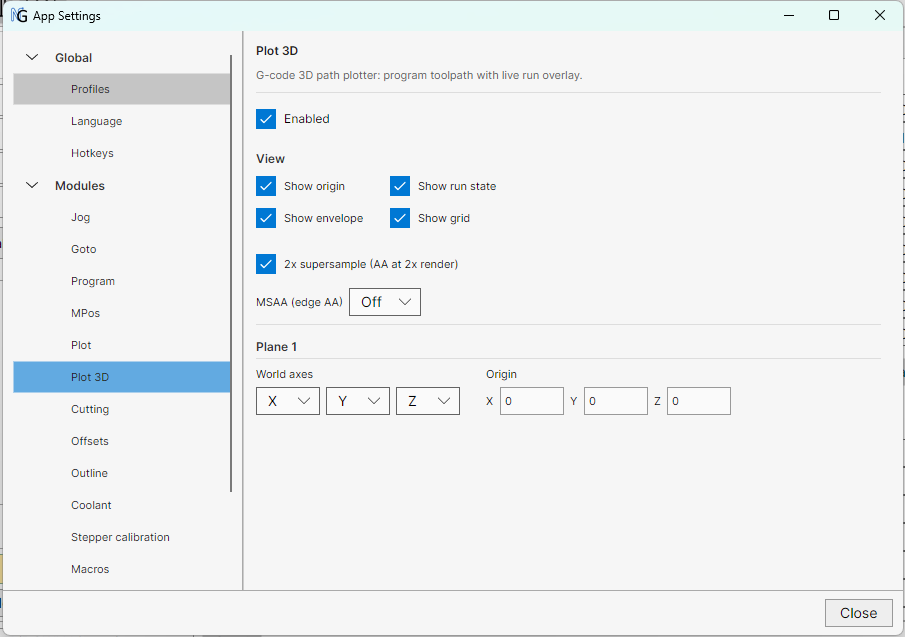
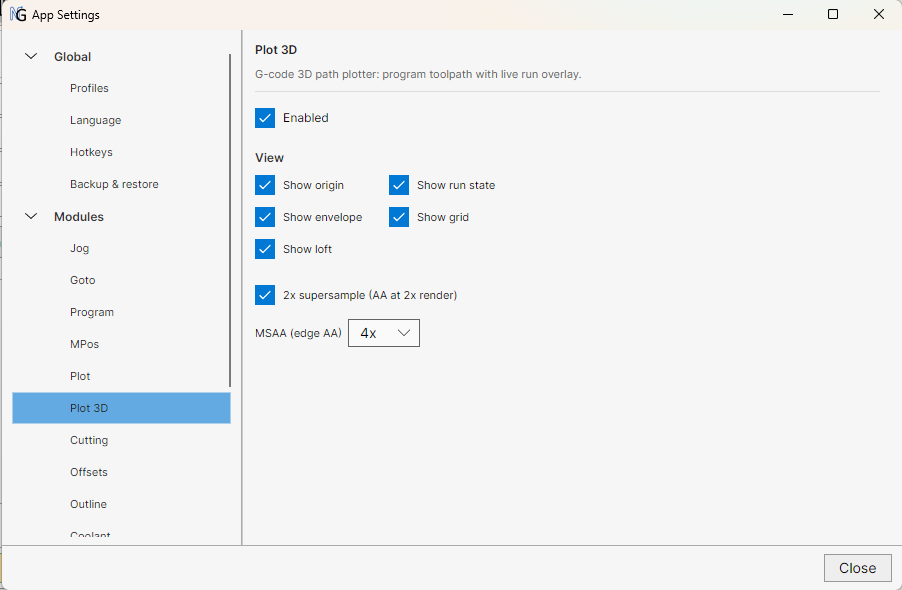
docs: correct stale post-kinematics facts and refresh settings screenshots

diff --git a/tests/SenderNG.Core.Tests/ToolpathBuilderTests.cs b/tests/SenderNG.Core.Tests/ToolpathBuilderTests.cs
@@ -168,9 +168,9 @@ public class ToolpathBuilderTests
     [Fact]
     public void Foam_machine_slices_second_carriage_from_Z_A_axes()
     {
-        // A foam-style block: tower 1 rides X/Y, tower 2 rides Z/A. The foam
-        // plane indices are 0,1 (plane 0) and 2,3 (plane 1) — the plotter reads
-        // those from MachineType.Planes and slices the per-axis segment arrays.
+        // A foam-style block: tower 1 rides X/Y, tower 2 rides Z/A. The slices
+        // are positional (indices 0,1 and 2,3) — the plotter maps those indices
+        // to the profile's declared planes via the kinematics provider.
         var segments = Build("G1 X10 Y2 Z8 A2 F100");
 
         var segment = Assert.Single(segments);

diff --git a/docs/architecture.md b/docs/architecture.md
@@ -19,7 +19,7 @@ Feature priorities, planned work and known deferred scope live in [`docs/ROADMAP
 
 ## 4. Porting policy
 
-Implementation is based on the original ioSender **when possible**: if a process already exists upstream (probing flow, jog logic, settings tree, override handling, steppers calibration wizard, …), port it rather than reinvent. Deviate only where the platform forces it (WPF → Avalonia, `Properties.Settings` / `App.config` → portable `settings.json`, custom stream classes → `System.IO.Ports`) or where this project's specs deliberately diverge (demo mode, DI module system, cutting overrides panel).
+Implementation is based on the original ioSender **when possible**: if a process already exists upstream (probing flow, jog logic, settings tree, override handling, steppers calibration wizard, …), port it rather than reinvent. Deviate only where the platform forces it (WPF → Avalonia, `Properties.Settings` / `App.config` → portable JSON settings (`global.json` plus one file per machine profile), custom stream classes → `System.IO.Ports`) or where this project's specs deliberately diverge (demo mode, DI module system, cutting overrides panel).
 
 ## 5. Current architecture (SenderNG)
 
@@ -35,7 +35,7 @@ tests/SenderNG.Modules.HeightMapViewer.Tests  xUnit height-map viewer suite
 tests/ReleaseManager.Tests xUnit release-tooling suite
 ```
 
-- **Engine (ported from ioSender/foamcut, kept nearly whole):** `GCodeParser.cs` (~3600 L), `NGCExpr.cs` (~1520 L), `GCodeEmulator.cs` (~680 L), `GCode.cs`, `Machine.cs`. `Grbl.cs` is deliberately slim (203 L vs upstream 3438 L): caps parsing (`ParseCaps`, `[OPT:...]`) ported; the rest are compile-only stubs — marked tech debt.
+- **Engine (ported from ioSender/foamcut, kept nearly whole):** `GCodeParser.cs` (~3600 L), `NGCExpr.cs` (~1520 L), `GCodeEmulator.cs` (~680 L), `GCode.cs`, `Machine.cs`. `Grbl.cs` is deliberately slim (206 L vs upstream 3438 L): caps parsing (`ParseCaps`, `[OPT:...]`) ported; the rest are compile-only stubs — marked tech debt.
 - **Service layer (`IGrblService`):** `DemoGrblService` (in-memory grbl simulation — jog `$J=`, G90/G91/G92, M3/M4/M5, coolant + override realtime bytes, persistent `$$` store) vs `RealGrblService` (serial via `System.IO.Ports` or network via `TcpGrblTransport` — grblHAL Ethernet; telnet/WebSocket not yet implemented), swapped behind `GrblServiceProxy` so subscribers survive demo↔real↔network transitions. Realtime command bytes live in `GrblRealtime`. A `ConnectionChanged` event on `IGrblService` (forwarded by the proxy, raised on inner swaps) drives the UI's connected state.
 - **Module contract (`IModule`):** `Id` / `Name` / `Order` / `PanelHint {Left, Center, Right, Flyout, Menu, Bottom, Dialog, None}` / `IsVisibleByDefault` / `CanHide` / `HotKeys` / `RegisterServices` / `CreateViewModel` / `CreateView`. `ModuleCatalog` scans assemblies; built-ins are registered explicitly in `HostSetup`. Settings surfaces live on a second seam, `IModuleSettingsProvider`: generic numeric/boolean fields or a custom settings view for the App Settings card, `AttachServices(IServiceProvider)` (called once after host build), and a `SettingsScope` declaration — `Profile` (default: section in the active machine profile) or `Global` (section in `global.json`; the Console module is the built-in example).
 - **Modules:**
@@ -53,7 +53,7 @@ tests/ReleaseManager.Tests xUnit release-tooling suite
 | Relation | Items |
 | --- | --- |
 | **Kept (ported)** | GCodeParser, NGCExpr, GCodeEmulator, Machine, caps parsing, foam patches, Macro editor (foamcut), Probing, Steppers calibration wizard (landed 2026-09-19), DRO/Jog/Coolant/Offsets concepts |
-| **Slimmed** | Grbl.cs (3438 → 203 L, caps only + stubs), GrblViewModel (1434 L → `MachineState`) |
+| **Slimmed** | Grbl.cs (3438 → 206 L, caps only + stubs), GrblViewModel (1434 L → `MachineState`) |
 | **Stripped** | WPF everywhere; custom streams (Serial/Telnet/WebSocket/YModem/Eltima) → `System.IO.Ports`; `Properties.Settings`/`App.config` → portable settings; localization (9 locales → JSON catalogs en/ru/fr/es/de with per-plugin overrides — see `docs/localization.md`) |
 | **Deferred (lowest priority)** | camera (AForge/V4L2), Lathe, DragKnife, SD card view, MPG, PID log, THC monitor, Trinamic view, Tool view |
 | **Added** | Demo/offline mode, DI plugin system + assembly scan, 4-panel layout with per-module visibility, cutting realtime overrides panel (0x90–0x9E), live status parsing (WPos/FS:/Ov:), MDI history, program limits, state indicator, JSON height-map format + 3D height-map viewer plugin, xUnit test suite (upstream had none) |
@@ -76,18 +76,18 @@ tests/ReleaseManager.Tests xUnit release-tooling suite
 - **Foam CNC depth** — the machine-type preset (Mill / Foam) chosen per profile drives the jog layout (schema: preset planes + controller `[AXS:]` letters; under-axed multi-plane machines hide the second plane), the plotter's two-carriage views and the Outline sweep, but foam-specific behavior beyond that is still limited. Hold-to-jog continuous works across these layouts including foam Together; what remains is tracked in the roadmap.
 - **Transports** — `TcpGrblTransport` covers plain TCP; telnet option negotiation and WebSocket are not implemented.
 - **Machine world mapping bakes in a horizontal convention** — the 3D views place a plane's axes by each axis's direction (Width → world X, Length → world Y, Height → world Z). Only `Height → Z` is physics, because a height is vertical by definition; the two horizontal assignments are naming conventions. A machine whose plane horizontal runs along the *other* horizontal axis — a sideways or gantry-rotated frame — therefore cannot be expressed and would need a per-machine override, which is the one thing the deleted per-plotter `Planes[].WorldAxes` table allowed. Deferred; tracked in the roadmap.
-- **Machine-card UI polish (deferred — out of scope for the kinematics work)** — the profile axis editor is behaviourally complete and pinned by headless tests, but its *visual* pass is deferred and deliberately out of scope for now. The smoke-test round already fixed the column alignment, the column titles (`Index | Type | Role | Direction | CAM Alias`) and the sign control (an `Inverted` checkbox replacing the old `[+]` button). What remains is the per-locale column fit (the Russian "Inverted" label is the tightest), the topology picture's proportions after its shrink, and the fact that no part of the card is screenshot-tested, so no automated check can catch a layout regression.
-- **Kinematics honest limits** — the remapped-board path (a controller whose `[AXS:]` letters are not `XYZA…`) is **unit-test-only**: no remapped board has ever been on the bench. A rotary axis's `RotationOrigin` has no consumer yet — it is for a future rotary view, and it is in *machine* coordinates while the plotter draws *work* coordinates, so it cannot be used as-is. The three topology images are placeholder art the maintainer intends to redraw.
+- **Machine-card UI polish** — the profile axis editor is behaviourally complete and pinned by headless tests. The column layout and titles (`Index | Type | Role | Inverted | CAM Alias`), the sign control (an `Inverted` checkbox replacing the old `[+]` button) and the topology art have since been cleaned up. The card still has no screenshot test, so a layout regression would go uncaught; per-locale column fit remains an eye check.
+- **Kinematics honest limits** — the remapped-board path (a controller whose `[AXS:]` letters are not `XYZA…`) is **unit-test-only**: no remapped board has ever been on the bench. A rotary axis's `RotationOrigin` has no consumer yet — it is for a future rotary view, and it is in *machine* coordinates while the plotter draws *work* coordinates, so it cannot be used as-is. The two topology images (mill, foam) are placeholder art the maintainer intends to redraw; the rotary art was removed because it was unreadable at the card's size.
 
 ### Landed recently (context)
 
-- **Controller connect** — three-tab `ConnectView` (Serial / Network / Demo); the app starts disconnected and never in demo mode — the dialog opens right after startup and the UI shows `NOT CONNECTED` until the user picks a controller. The connect-time `$I` handshake fills an immutable `ControllerCapabilities` (Coolant Mist visibility follows it) and pushes the discovered axis count into the injected `GrblInfoState` (the read path for the gcode parser and DRO) and the live `MachineState`. Serial ports re-enumerate every second; disconnects (reader error, failed status write, `IPortPresenceCheck` watchdog) flip the app to NOT CONNECTED and raise `ConnectionChanged`; reconnecting works even when the board comes back under a different COM number.
+- **Controller connect** — three-tab `ConnectView` (Serial / Network / Demo); the app starts disconnected and never in demo mode — the dialog opens right after startup and the UI shows `NOT CONNECTED` until the user picks a controller. The connect-time `$I` handshake fills an immutable `ControllerCapabilities` (Coolant Mist visibility follows it) and pushes the discovered axis count into the injected `GrblInfoState` (the read path for the gcode parser, expressions, jog, Goto and Outline; the DRO reads the kinematics provider instead) and the live `MachineState`. Serial ports re-enumerate every second; disconnects (reader error, failed status write, `IPortPresenceCheck` watchdog) flip the app to NOT CONNECTED and raise `ConnectionChanged`; reconnecting works even when the board comes back under a different COM number.
 - **Cycle bar** — the single run-control surface (the Program view's own bar was removed): Start = run/resume, Hold = pause, Stop = hard reset while Held, Rewind = local rewind when no session is active; buttons stay visible and gate on session state. The session is local orchestration only — the controller is driven exclusively by realtime bytes (`0x7E`/`0x21`/`0x18`) plus the G-code line stream awaiting each `ok`, one byte per transition instead of per button press. Home/Unlock/Reset are bound (`$H`/`$X`/realtime reset).
 - **Status bar, MDI, Console, Cutting** — the status bar keeps ioSender's exact four-slot layout (Blocks | Message | RunTime | JogStep, fixed-width) with no separate connection slot (connection info flows through Message like upstream); the MDI row is label + input + Send. The Cutting widget mirrors live feed/speed from the `FS:` field but reads feed as 0 during Hold — grblHAL reports the programmed feed while the machine is actually stopped; speed is untouched because a spindle keeps running through a feed hold. The Console tab renders the controller's raw output (silent in demo mode; a bounded replay shows the connect burst even if the Console tab is realized after connecting); the Check checkbox (grbl check mode `$C` — dry-run g-code without moving the machine) is bound.
 - **Accessory-state parsing** — `StatusReportParser` reads the grblHAL `A:` field into `MachineState.Flood`/`Mist`/spindle; classic grbl leaves it untouched.
 - **Height map** — the probing module persists maps as JSON (`.hmap.json`, replacing the legacy XML `.map`; no ioSender interchange) and exposes them through the Core `IHeightMapSource` contract (`HeightMapLayer`: row-major Z samples with `NaN` = unprobed, plus `ZOffset`; the stream is a `BehaviorSubject`, so a viewer opened after a probe still receives the current map). A separate first-party plugin, `HeightMapViewer`, consumes that contract (never referencing Probing) and registers Core's `IHeightMap3DRenderer` (`Task ShowAsync()`); the Probing widget's **3D View** action resolves it and is gated on the module's per-profile visibility. The viewer renders the surface, control-point markers and X/Y/Z arrows through `Common.Render`, with per-profile AA settings (2× supersample + MSAA).
 
-- **Machine kinematics and axis roles** (2026-10-14) — a machine profile declares its planes as `MachineAxis`es: a physical `AxisKind` (linear or rotary), a `Direction` naming the line the axis slides along or turns about, a sign, and — for a rotary — a two-coordinate pivot. Optional axes live outside every plane, and one separation scalar is the plane-to-plane distance. `MachineKinematicsResolver` derives the concrete model from the preset ⊕ profile ⊕ the controller's own `[AXS:]` letters ⊕ the reported axis count, so the letter a program uses is always the controller's and a profile only binds indices. `IMachineKinematicsProvider` is the single seam — the plotter (both the Skia panes and the 3D view), the DRO, Wrap and the outline sweep read one resolved instance instead of keeping private letter→axis dictionaries (jog is the deliberate exception; see tech debt). The 3D placement follows each axis's direction, which is what puts a foam tower on a vertical plane. The old positional role surface is deleted rather than deprecated.
+- **Machine kinematics and axis roles** (2026-10-14) — a machine profile declares its planes as `MachineAxis`es: a physical `AxisKind` (linear or rotary), a `Direction` naming the line the axis slides along or turns about, a sign, and — for a rotary — a two-coordinate pivot. Optional axes live outside every plane, and one separation scalar is the plane-to-plane distance. `MachineKinematicsResolver` derives the concrete model from the preset ⊕ profile ⊕ the controller's own `[AXS:]` letters ⊕ the reported axis count, so the letter a program uses is always the controller's first; a profile binds indices and may add an inbound CAM alias (a letter only the program uses). Aliases are profile state, never displayed, and the resolver flags one that collides with a board letter or another alias without dropping it. A multi-plane preset seeds a 200 mm plane-to-plane separation. `IMachineKinematicsProvider` is the single seam — the plotter (both the Skia panes and the 3D view), the DRO, Wrap and the outline sweep read one resolved instance instead of keeping private letter→axis dictionaries (jog is the deliberate exception; see tech debt). The 3D placement follows each axis's direction, which is what puts a foam tower on a vertical plane. The old positional role surface is deleted rather than deprecated.
 
 ### Tech debt
 

diff --git a/README.md b/README.md
@@ -64,7 +64,7 @@ SenderNG is a focused fork of ioSender. The main differences are cross-platform 
 
 ![Plotter widget](/docs/images/plot_iso.png)
 
-- Plotter 3D. Supports orbiting and snap views, but requires OpenGL 3.1+ and may be resource-hungry (tested on an Intel Compute Stick — may be slow, RPi 4B works just fine)
+- Plotter 3D. Supports orbiting and snap views, but requires OpenGL 3.3 core (GLES 3.0 on ARM64) and may be resource-hungry (tested on an Intel Compute Stick — may be slow, RPi 4B works just fine)
 
 ![Plotter 3D widget](/docs/images/plot_3d.png)
 
@@ -113,7 +113,7 @@ SenderNG is a focused fork of ioSender. The main differences are cross-platform 
 
 ## App settings
 
-Everything is configured from App Settings, scoped to the active machine profile (one file per machine plus a `global.json`, with a profile manager inside the settings). Almost any widget can be hidden from there — every module has a visibility toggle (the built-ins: DRO, Jog, Console, Program, Plotter, Coolant, plus the tabs installed by plugins), so the UI shows only what your machine needs. Hotkey remapping, converter parameters and per-module options live there too.
+Everything is configured from App Settings, scoped to the active machine profile (one file per machine plus a `global.json`, with a profile manager inside the settings). Most widgets can be hidden from there — the hideable modules (Plotter, Plot 3D, Cutting, Coolant, Macro, mPos, Outline, Goto, Stepper calibration and the installed plugins) have a visibility toggle, while fixed modules (DRO, Program, Console, Grbl settings, App settings, Offsets, Work parameters) and Jog/converters always stay, so the UI shows only what your machine needs. Hotkey remapping, converter parameters and per-module options live there too.
 
 ![App settings](/docs/images/settings.png)
 
@@ -136,20 +136,20 @@ own metadata rejects is listed with its reason instead of being sent.
 SenderNG speaks the grbl / grblHAL protocol:
 
 - **grblHAL** — the primary target. Full capability detection via the connect-time `$I` handshake: axis count and letters (`[AXS:]`), tool count, options, signals, settings catalog (`$ES`/`$EG`), the G10 L1 tool table, and extended coordinate systems (G59.2/G59.3).
-- **Classic grbl 1.1 and forks** (e.g. the mega5x 1.2i build) — verified against real boards. Detection degrades gracefully: no `[AXS:]` → 3-axis default, settings fall back to the embedded English catalog, no G10 L1 tool table, coordinate systems limited to G54..G59, and mist (M7) support is assumed rather than reported.
+- **Classic grbl 1.1 and forks** (e.g. the mega5x 1.2i build) — verified against real boards. Detection degrades gracefully: no `[AXS:]` → 3-axis default, settings fall back to the embedded English catalog, no G10 L1 tool table, coordinate systems limited to G54..G59, and mist (M7) follows the `[OPT:]` `M` option letter (grblHAL always supports it).
 - **Transports** — serial (COM ports, `/dev/ttyUSB*`, `/dev/ttyACM*`), plain TCP (grblHAL Ethernet boards), or Demo mode.
 
 Limitations:
 
 - TCP only — no telnet option negotiation and no WebSocket transport yet.
 - The app shows as many axes as the firmware reports; producing multi-axis G-code is CAM's scope.
-- No machine kinematics model yet — jog layout is driven by machine profiles (Mill / Foam presets), not by an axis-role map.
+- Machine kinematics are profile-declared: each profile declares its planes and axis roles (linear/rotary, direction, sign, optional CAM alias) and the app resolves them against the controller's reported `[AXS:]` letters for the jog layout, plotter, outline and DRO. Limits: the 3D world mapping assumes Width → X, Length → Y, Height → Z, so a sideways or gantry-rotated frame cannot be expressed yet; a controller with remapped letters is unit-tested only, not bench-verified; a rotary axis's pivot is stored but not yet used by a view.
 - Camera support is deferred indefinitely (if ever, as a 3rd-party plugin).
 - The Plot 3D tab ships on every platform but is hidden by default; on ARM64 it renders via Mesa.
 
 ## Plugins
 
-The base app ships only core functionality; everything else is a plugin — a separate assembly discovered by scanning `Modules/*.dll` at startup. No DLL, no feature: the core bundle runs fine without any of them, and installing one is a straight copy of the plugin zip's contents into the bundle's `Modules/` folder (see [Running from release assets](#running-from-release-assets)). This repository includes:
+Some modules ship inside the app (Jog, Cutting, Coolant, Macro, mPos, Outline, Goto, Stepper calibration); the heavier ones are plugins — a separate assembly discovered by scanning `Modules/*.dll` at startup. No DLL, no feature: the core bundle runs fine without them, and installing one is a straight copy of the plugin zip's contents into the bundle's `Modules/` folder (see [Running from release assets](#running-from-release-assets)). This repository includes:
 
 - Probing — tool-length, edge, center, rotation and height-map probing cycles
 - Height map 3D viewer — interactive 3D surface of the probed height map (opened from the Probing widget)
@@ -352,7 +352,7 @@ selects the Plot 3D plugin's native binaries by build OS, and because keeping
 both Linux targets on one host means one toolchain, one mirror, and one runbook.
 
 ```powershell
-# Linux bundle in output\linux, tests skipped (default)
+# Linux bundle in output\linux, tests run by default (pass -SkipTests to skip)
 .\tools\build-linux-release.ps1
 
 # include plugins

diff --git a/docs/ROADMAP.md b/docs/ROADMAP.md
@@ -31,9 +31,9 @@ immutable `ControllerCapabilities` exposed on `IGrblService`. `CoolantViewModel`
 shows `HasFlood`/`HasMist` from `_grbl.Capabilities` and the XAML binds button
 visibility. Demo reports a full capability set so both toggles stay visible.
 
-Note: the honest default is `CoolantMist = isGrblHAL` (a reliable signal for
-classic grbl 1.1's `ENABLE_M7` isn't exposed via `$I`). Axis count comes from
-`[AXS:]`, tool count from the 4th `[OPT:]` field.
+Note: `CoolantMist` is `isGrblHAL || OPT contains 'M'` — classic grbl 1.1
+exposes `ENABLE_M7` through its `[OPT:]` letters, and grblHAL always supports
+mist. Axis count comes from `[AXS:]`, tool count from the 4th `[OPT:]` field.
 
 ## Controller connect (Serial / Network / Demo) — DONE
 
@@ -77,7 +77,7 @@ emulator semantics, unchanged by the bridge).
 ## Keyboard shortcuts / key-map settings — DONE
 
 **Resolved:** a full keymap stack is live with a remap screen in App Settings.
-`HotkeyService` (Core) persists action → gesture bindings in `settings.json`;
+`HotkeyService` (Core) persists action → gesture bindings in `global.json`;
 `KeymapController` dispatches key events by action id; `KeymapDispatcher`
 (window-scoped in `MainWindow.axaml.cs`) owns focus/scoping and the
 deactivation release. Defaults are declared per module via
@@ -95,13 +95,12 @@ set was checked for parity defaults before finalizing.
 
 ## Other known deferred items
 
-- **Machine physical configuration** — the app has no model of the machine's
-  axis layout today: foam cutters are two-carriage machines (X/Y work plane
-  plus an Z/A second plane), mills are XYZ cross-axis, and the app only knows
-  "N axes" from `$I [AXS:]`. This item defines a machine geometry model
-  (axis roles, workplane semantics, kinematics flavor) that drives jog
-  layout, limits presentation and — critically — the g-code plotter, whose
-  projection depends on axis semantics.
+- **Machine physical configuration — LANDED (2026-10-14)** — the profile now
+  declares the machine's axis layout: foam cutters are two-carriage machines
+  (X/Y work plane plus a Z/A second plane), mills are XYZ cross-axis, and the
+  model is resolved against the controller's `$I [AXS:]` letters. It drives the
+  jog layout, limits presentation and the g-code plotter (see the landing note
+  below). What remains is the horizontal world-mapping convention.
   **Studied together with the 2D/3D program view** (see
   `docs/iosender-gaps.md` P2): the coupling is real, so the axis-role
   **schema** is designed first as part of this item; the plotter then builds
@@ -123,7 +122,7 @@ set was checked for parity defaults before finalizing.
   loft, live frontier coloring + tool glyph, vector render path (30fps
   throttle + interaction decimation — the M4 raster cache was reverted in M5).
   **3D orbit LANDED (2026-10-08+):** `src/SenderNG.Modules.Plotter.GL` — the
-  OpenGL successor to the Vulkan proof-of-concept: OpenGL 3.1+ / GLES 3.0+,
+  OpenGL successor to the Vulkan proof-of-concept: OpenGL 3.3 core / GLES 3.0,
   "Plot 3D" center tab (order 23, behind Skia's order 22), hidden by default
   (`IsVisibleByDefault=false`), ships on win-x64, linux-x64 and linux-arm64.
   **Storage prerequisite landed:**
@@ -182,7 +181,7 @@ set was checked for parity defaults before finalizing.
   the verified mechanics in `docs/iosender-gaps.md`. **LANDED (M1–M3):**
   Rotate, ArcsToLines and Compress are in Core (`GCodeTransformers`,
   26 tests) behind the File → Transform menu (dialogs, profile-scoped
-  compress comment setting, en/ru).
+  compress comment setting, en/ru/fr/es/de).
   **LANDED (2026-10-14):** Wrap / Unwrap (`GCodeTransformers.AxisRemap`) — a
   direction-agnostic axis remap (X/Y ↔ A/B) scaled by the cylinder diameter,
   one shared dialog (localized axis labels, Z0-at-center offset), and feed
@@ -213,9 +212,10 @@ set was checked for parity defaults before finalizing.
      selection illustrations exist — letter-labeled corner/edge diagram with
       red Z-contact markers (functionally equivalent to ioSender's pictograms).
       No longer gates the Probing sign-off.
-- Foam CNC mode: functional foam-specific behavior (mode is persisted but only
-  changes jog layout today — the layout itself is now schema-driven:
-  machine-type preset planes + controller `[AXS:]` letters).
+- Foam CNC mode: foam-specific behavior beyond the layout is still limited —
+  profiles replaced the Mill/Foam mode switch; the per-profile machine type
+  drives the jog layout, plotter views and Outline sweep (schema: preset planes
+  + controller `[AXS:]` letters).
   Continuous jog (hold-to-jog: velocity-based `$J=` + stop-on-release 0x85)
   is implemented (2026-09-17).
 - Telnet / WebSocket transports: `TcpGrblTransport` covers plain TCP; telnet
@@ -244,7 +244,7 @@ set was checked for parity defaults before finalizing.
 > still driven exclusively by the same realtime bytes, now sent once per state
 > transition instead of blindly per button press.
 >
-> Cross-cutting tech debt: `Grbl.cs` is 203 L vs upstream 3438 L (foamcut's full
+> Cross-cutting tech debt: `Grbl.cs` is 206 L vs upstream 3438 L (foamcut's full
 > `Grbl.cs` is 2535L) — `ParseCaps` + `[OPT:...]` field extraction ported; the
 > `AxisLetter`/`Position`/`CoordinateSystem`/`Tool` WPF `ViewModelBase`
 > leftovers are compile-only stubs kept so the ported engine files that

diff --git a/docs/iosender-gaps.md b/docs/iosender-gaps.md
@@ -186,7 +186,7 @@ Many already exist; the gaps are listed per widget.
 - [x] **Tool table → probing integration** (`ToolView`) — the Offsets flyout
       tool table is a full editor mirroring the offsets table: a **Tool**
       column with **editor-local names** (grblHAL has no name field —
-      maintainer-confirmed; names persist in `settings.json` keyed by a
+      maintainer-confirmed; names persist in the profile's `Offsets` section, keyed by a
       **controller fingerprint** = the `$I` firmware identity, deliberately
       without the COM port, so byte-identical boards share names and moving a
       machine to another port keeps them), **X/Y/Z/… + tip-radius cells**
@@ -246,8 +246,9 @@ Many already exist; the gaps are listed per widget.
 
 ### Deferred scope noted here for completeness (do not start without asking)
 
-- [x] **Foam functional mode** — mode is persisted but only changes the jog
-      layout; continuous jog works on the cross incl. Together (2026-09-17).
+- [x] **Foam functional mode** — profiles replaced the Mill/Foam mode switch;
+      the per-profile machine type drives jog, plotter and Outline; continuous
+      jog works on the cross incl. Together (2026-09-17).
 - [x] **Home / Unlock / Reset / Check** — `$H`/`$X`/realtime Reset and the
       **Check checkbox** (`$C`, dry-run) are all bound in `MainViewModel`.
       Nothing left unbound in this area.
@@ -256,17 +257,16 @@ Many already exist; the gaps are listed per widget.
 
 - [x] **3D program view** — the unified plotter: one layers+tool engine
       (2D affine projection on a plain canvas — isometric + flat views,
-      no 3D lib) as the third center tab (Program / 3D /
-      Console) or a flyout. Mill = XY flat + XYZ isometric (no XZ/YZ
-      selector — side flats are CAM-verification views, deferred) with a
-      cylinder+tip tool; laser/drag-knife = flat + tool glyph (dot /
+      no 3D lib) as the Plot center tab (order 22; Program 20, Console 21,
+      Plot 22, Plot 3D 23) or a flyout. Mill = XY flat + XYZ isometric (no
+      XZ/YZ selector — side flats are CAM-verification views, deferred) with
+      a cylinder+tip tool; laser/drag-knife = flat + tool glyph (dot /
       blade circle with direction tick); foam = two carriage layers
-      (isometric loft | XY/ZA flats) with the wire as the tool.      Depends
-      on the machine axis-role schema from ROADMAP's "Machine physical
-      configuration" item — **designed, decided and landed**
-      (2026-09-07): the plotter's schema
-      blocker is gone; it consumes `MachineType.Planes` (layer decomposition)
-      and `GrblInfo.AxisLetters` (labels). **A true 3D orbit view LANDED
+      (isometric loft | XY/ZA flats) with the wire as the tool. The machine
+      axis-role schema from ROADMAP's "Machine physical configuration" item
+      landed (2026-09-07); the plotter consumes the resolved kinematics
+      (`IMachineKinematicsProvider`: planes and controller letters) and owns
+      no axis mapping of its own. **A true 3D orbit view LANDED
       (2026-10-08+)** as the `SenderNG.Modules.Plotter.GL` plugin — OpenGL,
       hidden by default — so the 3D-view gap is now "orbit exists, not yet
       the unified productized layer+tool engine".
@@ -349,15 +349,15 @@ Explicitly deferred per `docs/ROADMAP.md`. Tick when deliberately started.
       compress comment handling is a profile-scoped Program setting — the
       "strip ;-comments" middle mode was dropped because `;` lines never
       tokenize).
-      **Remaining:** Wrap = rotary mapping (X/Y → A/B, diameter,
+      **Wrap LANDED (2026-10-14):** rotary mapping (X/Y → A/B, diameter,
       Z0-at-center) with **G93 inverse-time feed switching** for combined
-      moves — deferred until machine presets land. Probing migration
+      moves, plus Unwrap — see ROADMAP. Probing migration
       **LANDED (2026-09-05)**: height-map apply and rotation rebuilt at this
       token level (instead of the line-based rewriting), closing the
       documented G91/arc-Z and rotation-origin limitations, plus the
       "Determine X0,Y0" corner extra.
-- [x] **Localization** — ioSender ships 9 locales; SenderNG ships an en/ru
-      JSON catalog with per-plugin overrides and live switching — see
+- [x] **Localization** — ioSender ships 9 locales; SenderNG ships en/ru/fr/es/de
+      JSON catalogs with per-plugin overrides and live switching — see
       `docs/localization.md`; more locales are catalog-only work.
 - [ ] **Telnet / WebSocket transports** — `TcpGrblTransport` covers plain TCP
       (grblHAL Ethernet); telnet option negotiation and WebSocket remain
@@ -365,7 +365,7 @@ Explicitly deferred per `docs/ROADMAP.md`. Tick when deliberately started.
 
 ## Cross-cutting tech debt (architecture §8)
 
-- [ ] **`Grbl.cs` stubs** — 203 lines vs upstream 3438; caps parsing ported,
+- [ ] **`Grbl.cs` stubs** — 206 lines vs upstream 3438; caps parsing ported,
       rest compile-only stubs. Clean up as features touch them.
 - [x] **`GrblInfo` static state** — resolved 2026-09-19: became a read-only
       facade over an injectable `GrblInfoState` (`GrblInfo.Current` bound to the

diff --git a/AGENT.md b/AGENT.md
@@ -7,7 +7,7 @@ Guidance for AI agents (and human contributors) making changes to SenderNG. This
 1. **Investigate first.** Read the existing implementation, its callers, and its tests before proposing anything. Follow the project's established conventions (namespaces, xUnit style, nullable reference types enabled).
 2. **Explain the approach before editing.** Briefly state what you plan to change and why, then adjust the plan as you learn. Don't write code before you can say what it's for.
 3. **Reproduce bugs before fixing them.** Confirm the failure first. Where feasible, reproduce with a failing test; otherwise capture a minimal manual repro and describe it.
-4. **Demonstrate the failure with a test.** Write a test that fails against the current code, then make it pass. Engine/service tests live in `tests/SenderNG.Core.Tests` (xUnit); headless UI tests in `tests/SenderNG.Tests`; probing and release tooling in `tests/SenderNG.Modules.Probing.Tests` and `tests/ReleaseManager.Tests`.
+4. **Demonstrate the failure with a test.** Write a test that fails against the current code, then make it pass. Engine/service tests live in `tests/SenderNG.Core.Tests` (xUnit); headless UI tests in `tests/SenderNG.Tests`; module and release tooling in `tests/SenderNG.Modules.Probing.Tests`, `tests/SenderNG.Modules.HeightMapViewer.Tests` and `tests/ReleaseManager.Tests`.
 5. **Keep changes minimal.** Fix the problem, not the neighborhood: no unrelated refactoring, no style churn, and no work on deferred modules (Lathe, DragKnife) unless explicitly asked.
 6. **Add a copyright header to every new file.** Every new `src` file you add must start with the correct per-file copyright header chosen by the rules in `docs/copyright-headers.md` (mine-only vs. double vs. untouched). Do this at creation time, not later.
 7. **Run the relevant checks.** At minimum:
@@ -24,7 +24,7 @@ Guidance for AI agents (and human contributors) making changes to SenderNG. This
 - .NET 9 / Avalonia cross-platform gcode sender; fork of ioSender (BSD 3-Clause). SDK pinned in `global.json`.
 - The original ioSender reference checkout is available locally at `c:\Projects\Workshop\ioSender\` (engine in `CNC Core/CNC Core/`, WPF UI in `CNC Controls/CNC Controls/` and `ioSender/ioSender/`). Use it for reference instead of scraping the web; mirror ioSender's semantics where behavior parity matters.
 - **Hardware testing** — three real test boards are on the bench, nothing wired to them yet (RP2040 grblHAL, Mega 2560 mega5x grbl 1.2i, Arduino Nano classic grbl 1.1). They are safe to exercise (settings/parameters may be changed as needed) and tests restore what they touch. Boards' COM ports are not stable — resolve via `SENDERNG_HW_PORT=<port>`. See `docs/hardware-testing.md` for the board→firmware matrix, port discovery, and how to run the automated + interactive hardware tests. Before running any hardware-dependent test, explicitly prompt the user to connect the specific board and provide its port; never assume a board is connected, and check which board is actually plugged in (the firmware class changes what the test must verify).
-- `src/SenderNG.Core` — engine (namespaces `CNC.GCode`, `CNC.Core`, `SenderNG.*`); `src/SenderNG` — UI; `tests/` — four xUnit projects: `SenderNG.Core.Tests` (engine/services/view-models), `SenderNG.Tests` (headless UI), `SenderNG.Modules.Probing.Tests`, `ReleaseManager.Tests`.
+- `src/SenderNG.Core` — engine (namespaces `CNC.GCode`, `CNC.Core`, `SenderNG.*`); `src/SenderNG` — UI; `tests/` — five xUnit projects: `SenderNG.Core.Tests` (engine/services/view-models), `SenderNG.Tests` (headless UI), `SenderNG.Modules.Probing.Tests`, `SenderNG.Modules.HeightMapViewer.Tests`, `ReleaseManager.Tests`.
 - **Copyright headers** — every file carries a per-author copyright header (mine-only / double / untouched). The exact forms and the rule for choosing one are in `docs/copyright-headers.md`; follow it for all new files.
 - **Avalonia UI gotchas** — master/detail editor panels reuse one set of Controls across items, and recycled Controls fire Change events with stale state during a selection switch; never write from an editor's event handler without guarding by editor type (see `docs/avalonia-gotchas.md`). Read it before touching any editor-driven widget.
 - **Test categories** — three `Category` traits are excluded from CI because they are not reliable on a loaded 2-core runner. Run them locally, explicitly, when you touch the area:

diff --git a/tools/ReleaseManager/README.md b/tools/ReleaseManager/README.md
@@ -170,8 +170,9 @@ so they only ever ship in the core `Modules/`.
    `SenderNG-<ver>-win64.zip`, per-plugin zips, `SHA256SUMS.txt`.
 3. Smoke test: run `output\win64\SenderNG\SenderNG.exe` → Connect → Demo; open
    an `.nc`, plot, probe-free sanity pass.
-4. Copy to thumb drive: the self-contained bundle with the Vulkan closure is
-   large — copy the **zips** when speed matters and unzip on the destination.
+4. Copy to thumb drive: the self-contained bundle with the OpenGL/Silk.NET
+   closure is large — copy the **zips** when speed matters and unzip on the
+   destination.
    Optional verification: `Get-FileHash` against `SHA256SUMS.txt`.
 
 ## Runbook — Linux under WSL2 → thumb drive
@@ -232,10 +233,10 @@ so they only ever ship in the core `Modules/`.
    ```
    dotnet run --project tools/ReleaseManager -- --include-plugins
    ```
-   On a headless WSL host the rendering tests (`WboitConeRepro.*`,
-   `PlotterLiveRunHeadlessTests.*`) fail without a GPU, which aborts the
-   release's test gate. If they fail, ship with `--skip-tests` and rely on the
-   WSLg smoke test below instead:
+   The test gate runs the same filter as CI (the Hardware, GPU and Timing
+   categories are excluded), so a headless WSL host needs no special handling.
+   If the suite must be skipped for an unrelated reason, pass `--skip-tests`
+   and rely on the WSLg smoke test below instead:
    ```
    dotnet run --project tools/ReleaseManager -- --include-plugins --skip-tests
    ```

diff --git a/docs/localization.md b/docs/localization.md
@@ -68,7 +68,8 @@ from there at runtime. A non-en locale JSON carries four top-level sections — 
   of them (88 `error.<n>` plus `errorHint.15` and `errorHint.79`) that `en.json` lacks;
   English for those comes from the built-in `GrblErrorCodes` dictionary instead
   (`TError`/`TErrorHint` fall back to it).
-  Resolution falls back `locale → English → the key itself`/caller-provided English.
+  Resolution falls back `locale → plugin locale → English → plugin English → the key
+  itself`/caller-provided English.
 
 ---
 
@@ -87,7 +88,7 @@ Key API:
 
 | Member | Purpose |
 | --- | --- |
-| `T(key)` | Resolve a key: locale → plugin → English → the **key itself** (low-level). |
+| `T(key)` | Resolve a key: locale → plugin locale → English → plugin English → the **key itself** (low-level). |
 | `Resolve(key, fallback)` | Same but returns caller's `fallback` instead of a raw key (code-side `{Loc}` counterpart). |
 | `SetLocale(code)` | Switch language at runtime; raises `Changed`. |
 | `Changed` | Event fired after a locale switch, so live UI re-reads labels. |

diff --git a/docs/plugin-development.md b/docs/plugin-development.md
@@ -395,9 +395,10 @@ the Avalonia host casts).
 The panel contract is not Flyout-only: `PanelHint` also offers `Dialog` (the
 module's UI opens as a dialog — wizards like stepper calibration) and `None`
 (no UI at all, e.g. converter plugins). Modules declare whether they start
-enabled (`IsEnabledByDefault`); App Settings lets users show/hide and
-enable/disable a module independently — what "disabled" gates exactly is the
-enabled/visible overhaul tracked in the ROADMAP.
+visible (`IsVisibleByDefault`) and whether they can be hidden (`CanHide`); App
+Settings lets users show/hide a module. Enablement (`IsEnabledByDefault`) is
+declared on the contract but not read yet — what "disabled" gates exactly is
+the enabled/visible overhaul tracked in the ROADMAP.
 
 ### 6.1 Reference plugin: probing
 
